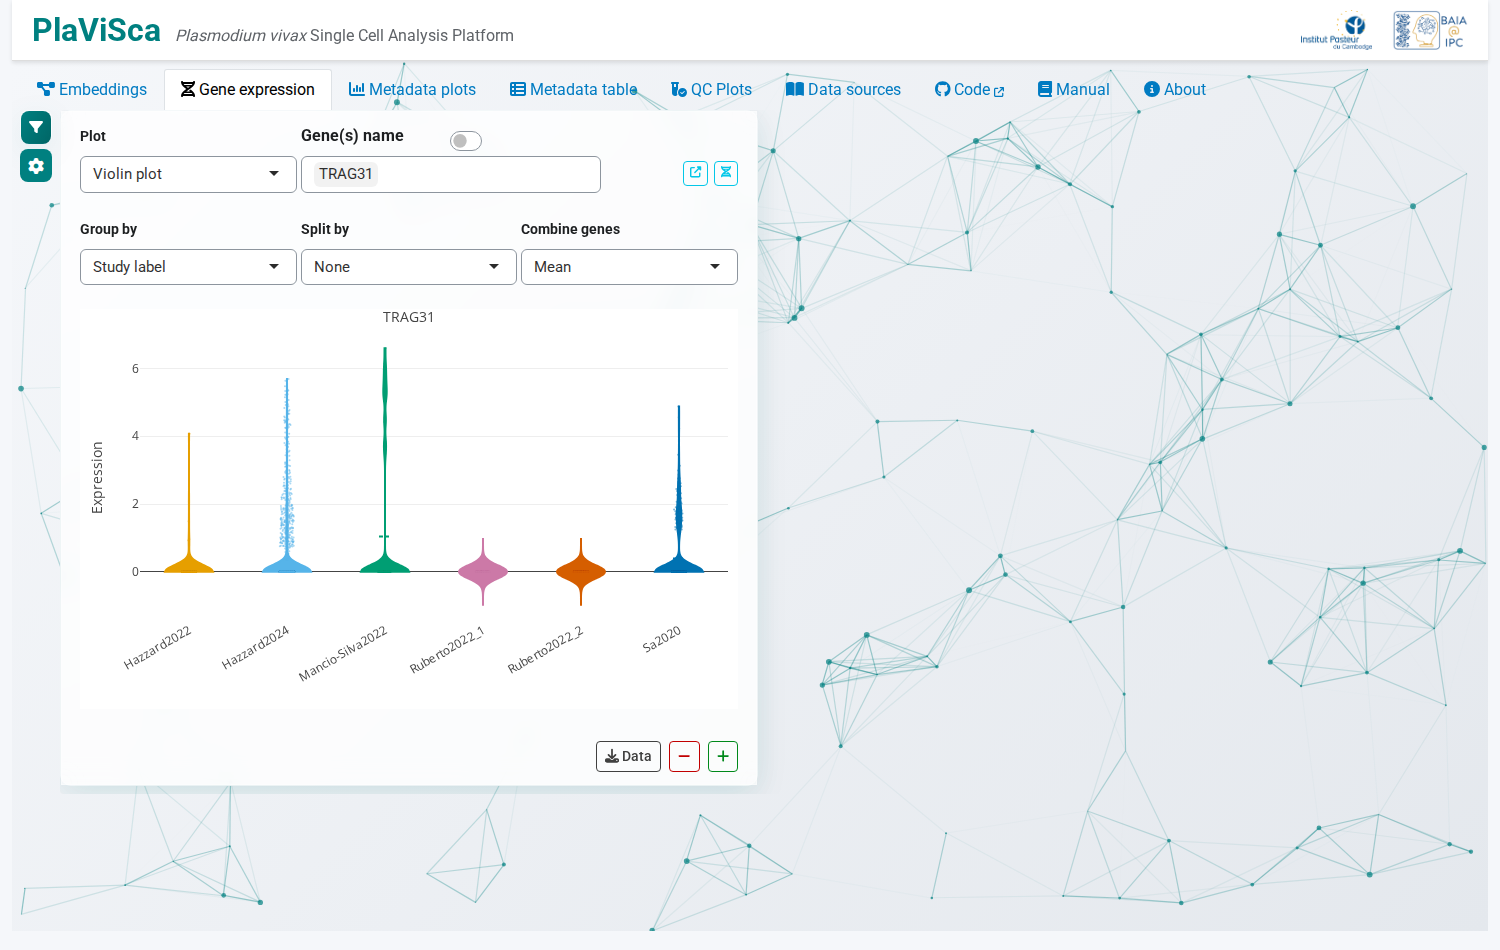
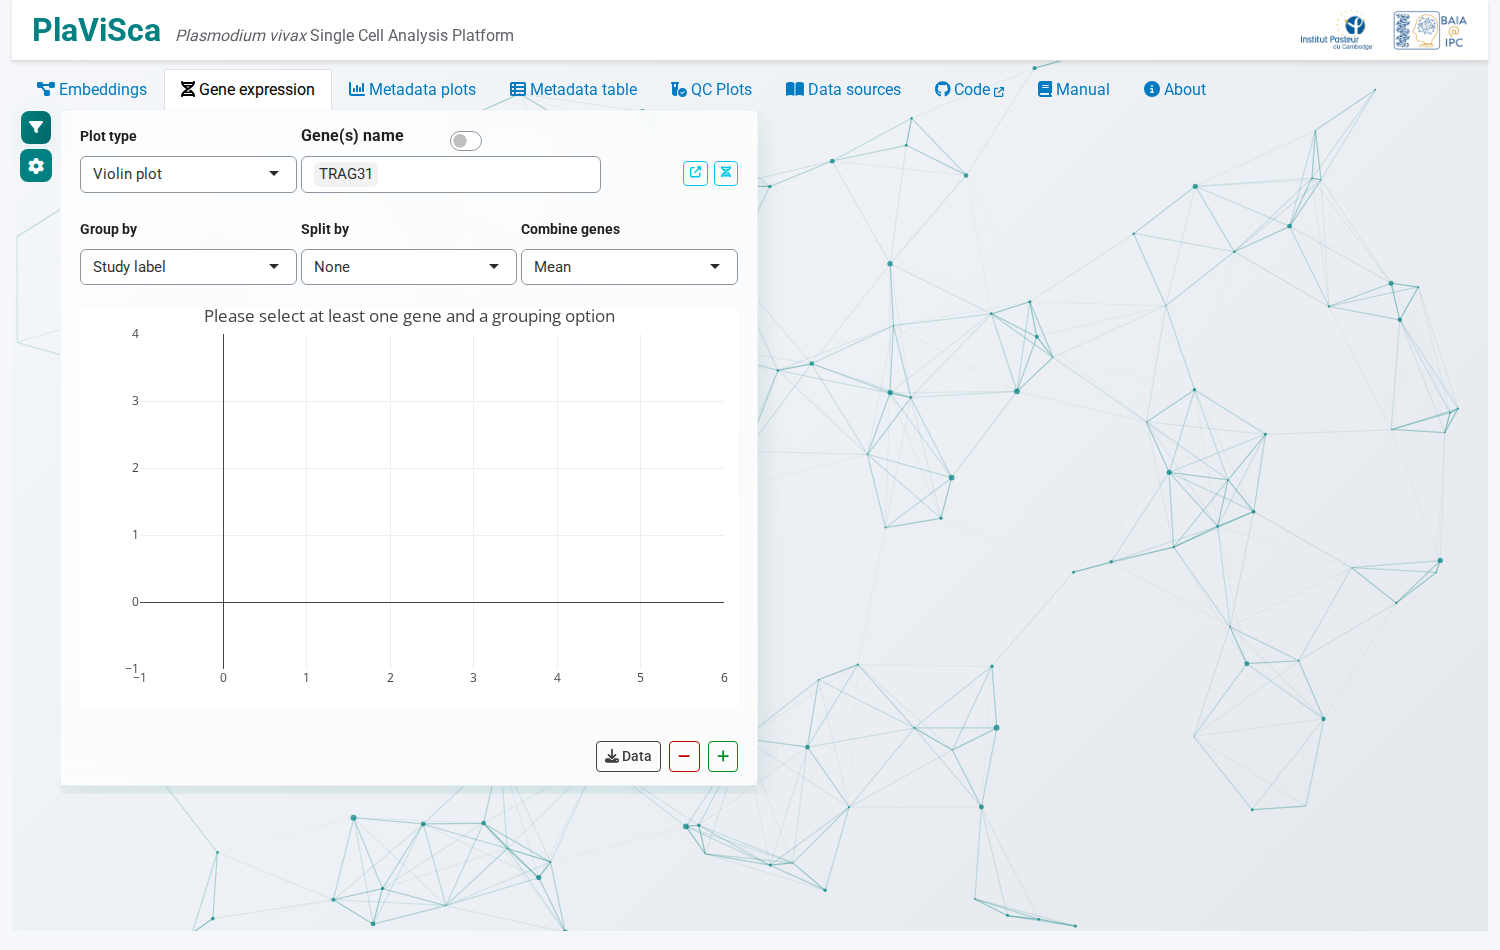
Gene expression: menus open above the card, "Plot type" label
The menus of a Gene expression card open on the page body, so that the
next row of menus no longer covers their choices. The first menu is
labelled "Plot type", as in Metadata plots.

diff --git a/manual/docs/build/html/user_manual.html b/manual/docs/build/html/user_manual.html
@@ -218,10 +218,10 @@
 <li><p><strong>Gene Search</strong>: Toggle between Gene Name and Gene ID search using the switch in each panel.</p></li>
 <li><p><strong>Gene Selection</strong>: Select up to 10 genes per panel.</p></li>
 <li><p><strong>Group by</strong>: Organize expression by Study label, Broad life-cycle stage, Life-cycle stage, Host species, or Treatment.</p></li>
-<li><p><strong>Plot</strong>: the first menu of each panel; the options below it depend on the plot:</p>
+<li><p><strong>Plot type</strong>: the first menu of each panel; the options below it depend on the plot type:</p>
 <table class="docutils align-default">
 <thead>
-<tr class="row-odd"><th class="head"><p>Plot</p></th>
+<tr class="row-odd"><th class="head"><p>Plot type</p></th>
 <th class="head"><p>What it shows</p></th>
 <th class="head"><p>Options</p></th>
 </tr>

diff --git a/manual/docs/source/user_manual.md b/manual/docs/source/user_manual.md
@@ -93,9 +93,9 @@ The Gene Expression tab provides an interactive interface for exploring gene exp
 - **Gene Search**: Toggle between Gene Name and Gene ID search using the switch in each panel.
 - **Gene Selection**: Select up to 10 genes per panel.
 - **Group by**: Organize expression by Study label, Broad life-cycle stage, Life-cycle stage, Host species, or Treatment.
-- **Plot**: the first menu of each panel; the options below it depend on the plot:
+- **Plot type**: the first menu of each panel; the options below it depend on the plot type:
 
-  | Plot | What it shows | Options |
+  | Plot type | What it shows | Options |
   |---|---|---|
   | Violin plot, Box plot | the expression of each cell, per group | **Split by**: a second field, drawn side by side in its colours; **Combine genes**: with several genes, their *Mean* or *Sum* in each cell, or *Each gene separately* (one row per gene) |
   | Cleveland dot plot | one point per group and gene, one row per gene | **Value**; **Points by**: one point per value of a second field (Study label by default), side by side |
